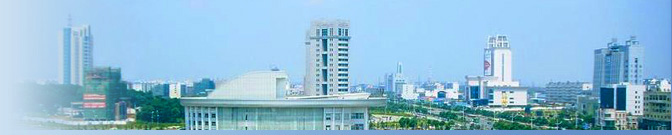
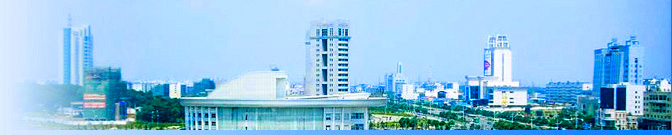
update xtshzz resource files

Changed region(s): [[0.0312, 0.1481, 1.0, 1.0]]

diff --git a/xtshzz/custom.minv6.css b/xtshzz/custom.minv6.css
@@ -1,4 +1,4 @@
-#search_input{width:100%}#headerlogo{margin-top:-5px}.no-padding{background-color:#CEE1F0}.portletNavigationTree h4{text-align:center}.btn-active,.portletNavigationTree h4 .tile{border-bottom:none;border-left:none;border-right:none;border-radius:4px 4px 0 0;font-size:14px;font-weight:700;margin-left:6px;margin-top:6px;padding-top:3px;padding-bottom:0;color:#337AB7}.event_list_search_select li{display:inline;float:left;list-style:none outside none}.event_list_search_select .info{line-height:50px;padding-left:2px}.event_list_search_select .a{font-weight:700;line-height:50px;padding-left:10px}.event_list_search_select .info span{color:#279006;font-weight:700}.event_list_search .fenlei{border-bottom:1px dotted #d9d9d9;clear:both;height:31px;line-height:31px;margin:0 auto}.event_list_search li{display:block}.event_list_search .fenlei li{display:block;float:left;height:31px;padding:0 8px}.event_list_search .fenlei .title{background:none repeat scroll 0 center transparent;font-weight:700;padding:0 3px}.event_list_search .fenlei li a{color:#333}.event_list_search .fenlei{line-height:31px}.event_list_search .fenlei .over a{color:#279006;font-weight:700}.paixu a{display:inline-block;height:20px;margin-right:10px;padding-right:10px}.dl-horizontal dt:after{content:":"}.event_list_search ul{padding-left:0}.center{float:none;margin-left:auto;margin-right:auto;display:block}.kssattr-formname-register,.kssattr-formname-register_sponsor{margin:0 auto;max-width:330px;padding:15px}.formControls{margin-top:12px}.formControls input{margin-right:12px}.navbar-default .navbar-toggle .icon-bar{background-color:#fff}#send .members,#send .self{display:none}#review-history{padding-left:0;padding-right:0;margin-top:12px}.ajaxsearch{margin-top:12px}.report{font-size:120%;font-weight:400;margin-bottom:12px;margin-top:12px}.comments{height:70px}.border{border:1px solid #dedede}.border-bottom{border-bottom:1px solid #dedede;height:30px;font-size:120%;font-weight:400}.right-bottom{border-right:1px solid #dedede}.template-index-html .row{margin-bottom:6px}.text-left td{text-align:left}.table .nopadding{padding:0}.theader td{background-color:#ededed;height:25px;font-weight:700}.title a{text-decoration:none}.container-header{padding-right:0}h1{font-size:24px}h2{font-size:22px}h3{font-size:19px}h1,h2,h3{line-height:1.1;text-align:center}.navbar{margin-bottom:10px}.navbar-right{margin-right:6px}.navbar-nav>li>a{font-weight:700}.breadcrumb{margin-bottom:0;font-size:12px;padding:1px 15px}.navbar-brand img{margin-top:-2px}img.right{float:right}#content a.managePortletsFallback,.arrowDownAlternative,.documentDescription,.managePortletsLink,a.managePortletsFallback,dl.warning{display:none}.portletItemDetails{float:right;margin-right:1em;color:#000}.portlet{margin:0;border:1px solid #B4B4B4;border-top:none}.portletItem .navTree a{border-bottom:none}.portletNavigationTree h4 a.tile{margin:0 auto}.portletTopRight{color:#fff;float:right;font-size:14px;font-weight:400;line-height:1.42857;margin-right:6px;margin-top:-26px}.navTree{padding-left:20px}.navTree .navTreeItem{line-height:1.6em;list-style:none outside url(http://images.315ok.org/xtshzz/images/red_point.jpg);border-bottom:1px dashed #b4b4b4}.navTreeCurrentItem{color:#B4B4B4;}.portletNavigationTree{margin-top:6px}.QuickUploadPortlet h4,.portletHeader,.portletNavigationTree h4{background:url(http://images.315ok.org/xtshzz/images/portletheaderbg2.jpg) repeat-x scroll 0 0 transparent;height:29px;margin:0}#friendly-link{margin-right:-12px}.friendlybg{margin-top:6px;background:transparent url(http://images.315ok.org/xtshzz/images/friendlinkbg.jpg) repeat-x 0 0;border:none;width:100%;height:108px;color:#fff}.label{color:#787878}.copyright{padding-top:12px}.copyright a{color:#FFC40D}.linkzone a{color:#fff;font-size:12px;text-decoration:none}.verticaltext{float:left;font-size:21px;font-weight:700;letter-spacing:24px;line-height:1.1;padding-left:24px;padding-top:8px;width:1em}.linkzone{margin-left:50px;padding-top:20px;text-align:left}.linkzone ul{padding-top:6px}.linkzone ul li{list-style:none;display:inline}.linkzone ul li a{border-right:1px solid #FFF;display:inline-block;padding:0 8px}.linkzone ul .first a{font-size:14px;font-weight:700;border-right:none;padding-left:0}.linkzone ul .last a{border-right:none}#content p{text-indent:2em}#content .noindent{text-indent:0;font-size:150%;font-weight:400}.footerbg p{line-height:1.2}.portlet-static-footer{margin-top:12px}.nav-tabs{border-bottom:none}.navbar-inner{line-height:20px;font-size:14px;font-weight:700}
+#search_input{width:100%}#headerlogo{margin-top:-5px}.no-padding{background-color:#dcecff}.portletNavigationTree h4{text-align:center}.btn-active,.portletNavigationTree h4 .tile{border-bottom:none;border-left:none;border-right:none;border-radius:4px 4px 0 0;font-size:14px;font-weight:700;margin-left:6px;margin-top:6px;padding-top:3px;padding-bottom:0;color:#337AB7}.event_list_search_select li{display:inline;float:left;list-style:none outside none}.event_list_search_select .info{line-height:50px;padding-left:2px}.event_list_search_select .a{font-weight:700;line-height:50px;padding-left:10px}.event_list_search_select .info span{color:#279006;font-weight:700}.event_list_search .fenlei{border-bottom:1px dotted #d9d9d9;clear:both;height:31px;line-height:31px;margin:0 auto}.event_list_search li{display:block}.event_list_search .fenlei li{display:block;float:left;height:31px;padding:0 8px}.event_list_search .fenlei .title{background:none repeat scroll 0 center transparent;font-weight:700;padding:0 3px}.event_list_search .fenlei li a{color:#333}.event_list_search .fenlei{line-height:31px}.event_list_search .fenlei .over a{color:#279006;font-weight:700}.paixu a{display:inline-block;height:20px;margin-right:10px;padding-right:10px}.dl-horizontal dt:after{content:":"}.event_list_search ul{padding-left:0}.center{float:none;margin-left:auto;margin-right:auto;display:block}.kssattr-formname-register,.kssattr-formname-register_sponsor{margin:0 auto;max-width:330px;padding:15px}.formControls{margin-top:12px}.formControls input{margin-right:12px}.navbar-default .navbar-toggle .icon-bar{background-color:#fff}#send .members,#send .self{display:none}#review-history{padding-left:0;padding-right:0;margin-top:12px}.ajaxsearch{margin-top:12px}.report{font-size:120%;font-weight:400;margin-bottom:12px;margin-top:12px}.comments{height:70px}.border{border:1px solid #dedede}.border-bottom{border-bottom:1px solid #dedede;height:30px;font-size:120%;font-weight:400}.right-bottom{border-right:1px solid #dedede}.template-index-html .row{margin-bottom:6px}.text-left td{text-align:left}.table .nopadding{padding:0}.theader td{background-color:#ededed;height:25px;font-weight:700}.title a{text-decoration:none}.container-header{padding-right:0}h1{font-size:24px}h2{font-size:22px}h3{font-size:19px}h1,h2,h3{line-height:1.1;text-align:center}.navbar{margin-bottom:10px}.navbar-right{margin-right:6px}.navbar-nav>li>a{font-weight:700}.breadcrumb{margin-bottom:0;font-size:12px;padding:1px 15px}.navbar-brand img{margin-top:-2px}img.right{float:right}#content a.managePortletsFallback,.arrowDownAlternative,.documentDescription,.managePortletsLink,a.managePortletsFallback,dl.warning{display:none}.portletItemDetails{float:right;margin-right:1em;color:#000}.portlet{margin:0;border:1px solid #B4B4B4;border-top:none}.portletItem .navTree a{border-bottom:none}.portletNavigationTree h4 a.tile{margin:0 auto}.portletTopRight{color:#fff;float:right;font-size:14px;font-weight:400;line-height:1.42857;margin-right:6px;margin-top:-26px}.navTree{padding-left:20px}.navTree .navTreeItem{line-height:1.6em;list-style:none outside url(http://images.315ok.org/xtshzz/images/red_point.jpg);border-bottom:1px dashed #b4b4b4}.navTreeCurrentItem{color:#B4B4B4;}.portletNavigationTree{margin-top:6px}.QuickUploadPortlet h4,.portletHeader,.portletNavigationTree h4{background:url(http://images.315ok.org/xtshzz/images/portletheaderbg2.jpg) repeat-x scroll 0 0 transparent;height:29px;margin:0}#friendly-link{margin-right:-12px}.friendlybg{margin-top:6px;background:transparent url(http://images.315ok.org/xtshzz/images/friendlinkbg.jpg) repeat-x 0 0;border:none;width:100%;height:108px;color:#fff}.label{color:#787878}.copyright{padding-top:12px}.copyright a{color:#FFC40D}.linkzone a{color:#fff;font-size:12px;text-decoration:none}.verticaltext{float:left;font-size:21px;font-weight:700;letter-spacing:24px;line-height:1.1;padding-left:24px;padding-top:8px;width:1em}.linkzone{margin-left:50px;padding-top:20px;text-align:left}.linkzone ul{padding-top:6px}.linkzone ul li{list-style:none;display:inline}.linkzone ul li a{border-right:1px solid #FFF;display:inline-block;padding:0 8px}.linkzone ul .first a{font-size:14px;font-weight:700;border-right:none;padding-left:0}.linkzone ul .last a{border-right:none}#content p{text-indent:2em}#content .noindent{text-indent:0;font-size:150%;font-weight:400}.footerbg p{line-height:1.2}.portlet-static-footer{margin-top:12px}.nav-tabs{border-bottom:none}.navbar-inner{line-height:20px;font-size:14px;font-weight:700}
 .pagination {margin-left:auto;margin-right:auto;width:100%}
 div.mce-fullscreen{z-index:1031} 
 .navbar-toggle,.navbar-toggle .icon-bar {border: 1px solid #FFF;}
